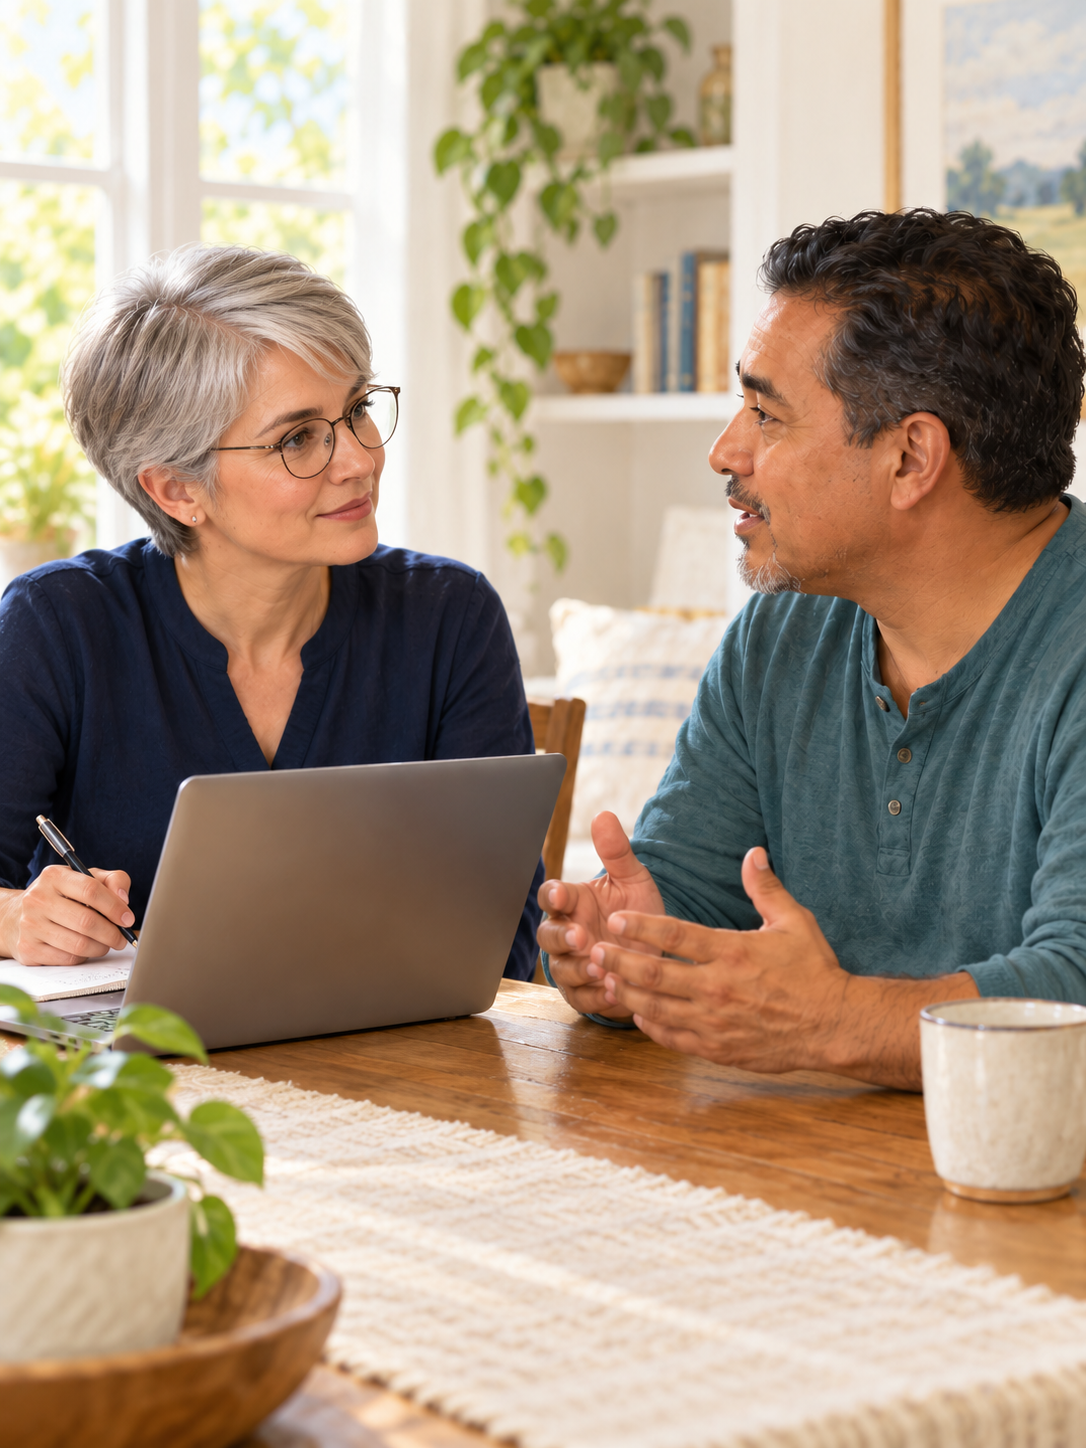
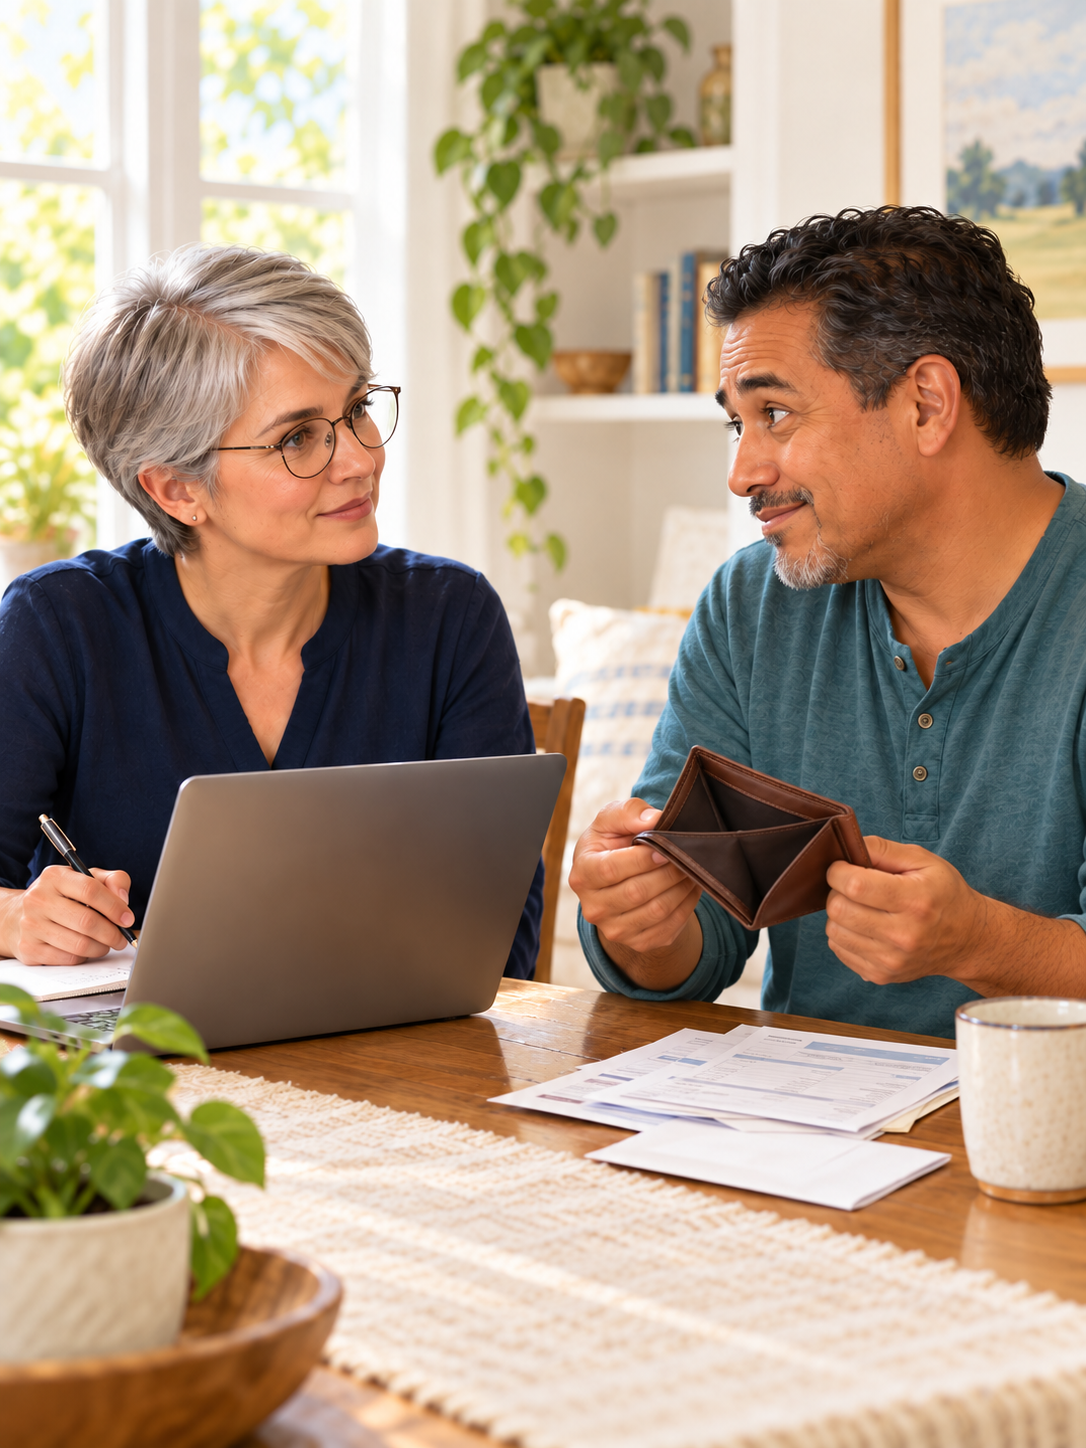
docs: refine MEPS household survey image for slides

diff --git a/docs/slides/generate_slides.py b/docs/slides/generate_slides.py
@@ -314,8 +314,9 @@ def build_presentation():
                      "MEPS links accessible inputs to observed spending")
     survey_bullets(data)
     picture(data, SLIDES_DIR / "assets/household-survey.png",
-            "Illustration of an interviewer using a laptop while an adult respondent "
-            "answers questions at home.", 868, 148, 340, 453.333)
+            "Illustration of a household survey interview: a respondent shows an empty "
+            "wallet beside bills, while an interviewer listens with a laptop.",
+            868, 148, 340, 453.333)
     appendix_link = text(data, "MEPS appendix link", "Appendix: MEPS overview",
                          72, 674, 800, 24, 18, color=SECONDARY, underline=True)
 
@@ -488,7 +489,7 @@ def main():
     args = parser.parse_args()
     if re.fullmatch(r"[a-zA-Z0-9_-]+", args.revision) is None:
         parser.error("Revision names can contain only letters, numbers, underscores and hyphens.")
-    output_dir = SLIDES_DIR / "exports" / f"main-{args.revision}"
+    output_dir = SLIDES_DIR / "exports" / args.revision
     if output_dir.exists():
         parser.error(f"Revision already exists: {output_dir}. Choose a new name.")
     if args.render:
@@ -498,7 +499,7 @@ def main():
             parser.error(f"PNG previews require: {', '.join(missing)}.")
     presentation = build_presentation()
     output_dir.mkdir(parents=True)
-    pptx_path = output_dir / f"medical-cost-planner-main-{args.revision}.pptx"
+    pptx_path = output_dir / f"medical-cost-planner-{args.revision}.pptx"
     presentation.save(pptx_path)
     print(f"PowerPoint: {pptx_path}")
     if args.render:

diff --git a/docs/slides/storyboard.md b/docs/slides/storyboard.md
@@ -142,8 +142,8 @@ spending, with survey weights supporting population-level training and evaluatio
   This sample represents approximately 260 million U.S. adults.
 
 **Layout:** A simple bullet list with bold labels on the left and a small
-[household-interview illustration](assets/household-survey.png) in a 3:4 portrait
-format on the right, aligned with the top of the bullets. A small footer link, 
+[household survey illustration](assets/household-survey.png) on the right.
+A small footer link,
 “Appendix: MEPS overview,” opens [A1](#a1--meps-survey-overview) for follow-up 
 questions.
 
@@ -805,7 +805,7 @@ PowerPoint exports local.
 
 `generate_slides.py` builds the main presentation, with spoken notes drawn from
 this storyboard. Slide text and layouts live in the generator; update both files
-when content changes. Exports use numbered folders such as `exports/main-v12/`.
+when content changes. Exports use numbered folders such as `exports/v12/`.
 
 After a numbered draft passes validation and preview review, keep the new export
 and the previous complete export. Remove older draft exports and obsolete build

diff --git a/docs/slides/README.md b/docs/slides/README.md
@@ -21,8 +21,8 @@ Python generator from the repository root:
 .\.venv-train\Scripts\python docs/slides/generate_slides.py v4
 ```
 
-The script writes `medical-cost-planner-main-v4.pptx` under
-`exports/main-v4/`. PowerPoint generation needs no ChatGPT or Codex runtime,
+The script writes `medical-cost-planner-v4.pptx` under
+`exports/v4/`. PowerPoint generation needs no ChatGPT or Codex runtime,
 model artifacts, or survey data. It uses `storyboard.md`, the images in `assets/`,
 and the project images `../../assets/header.png` and
 `../../assets/infographic_meps_data.jpg`. All these inputs are tracked by Git.
